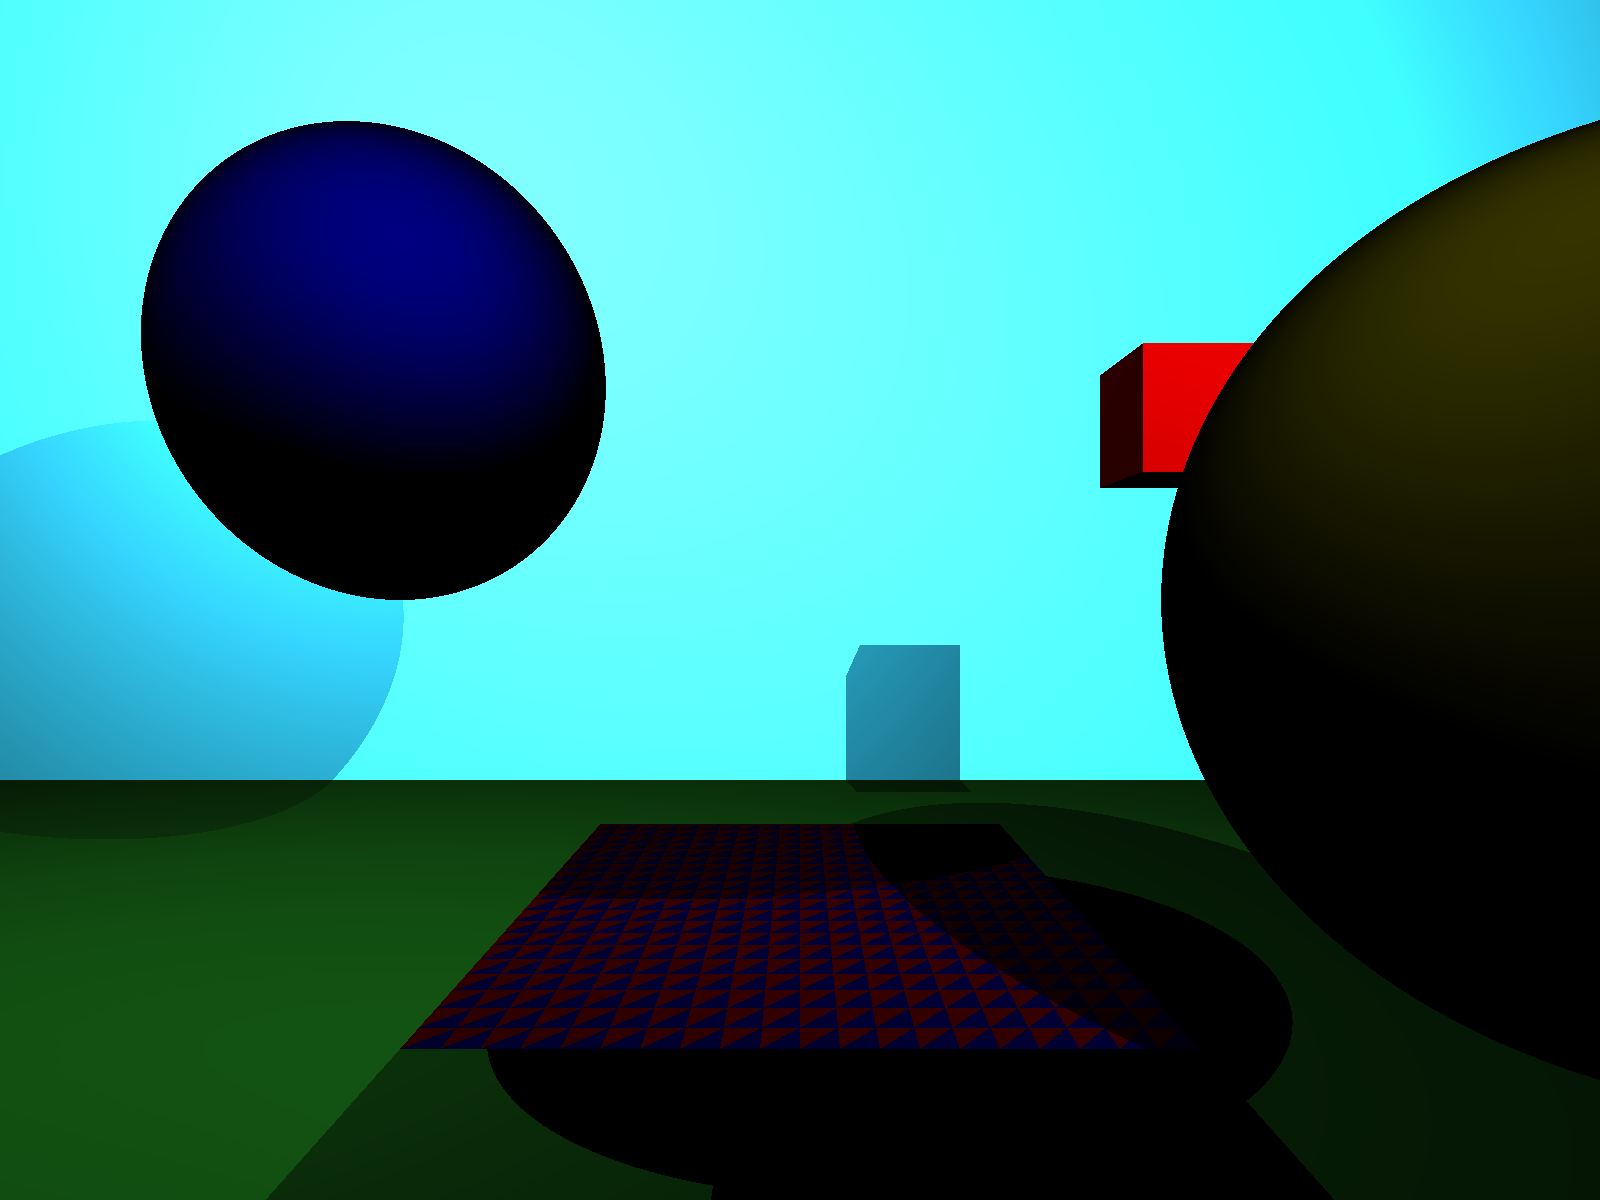
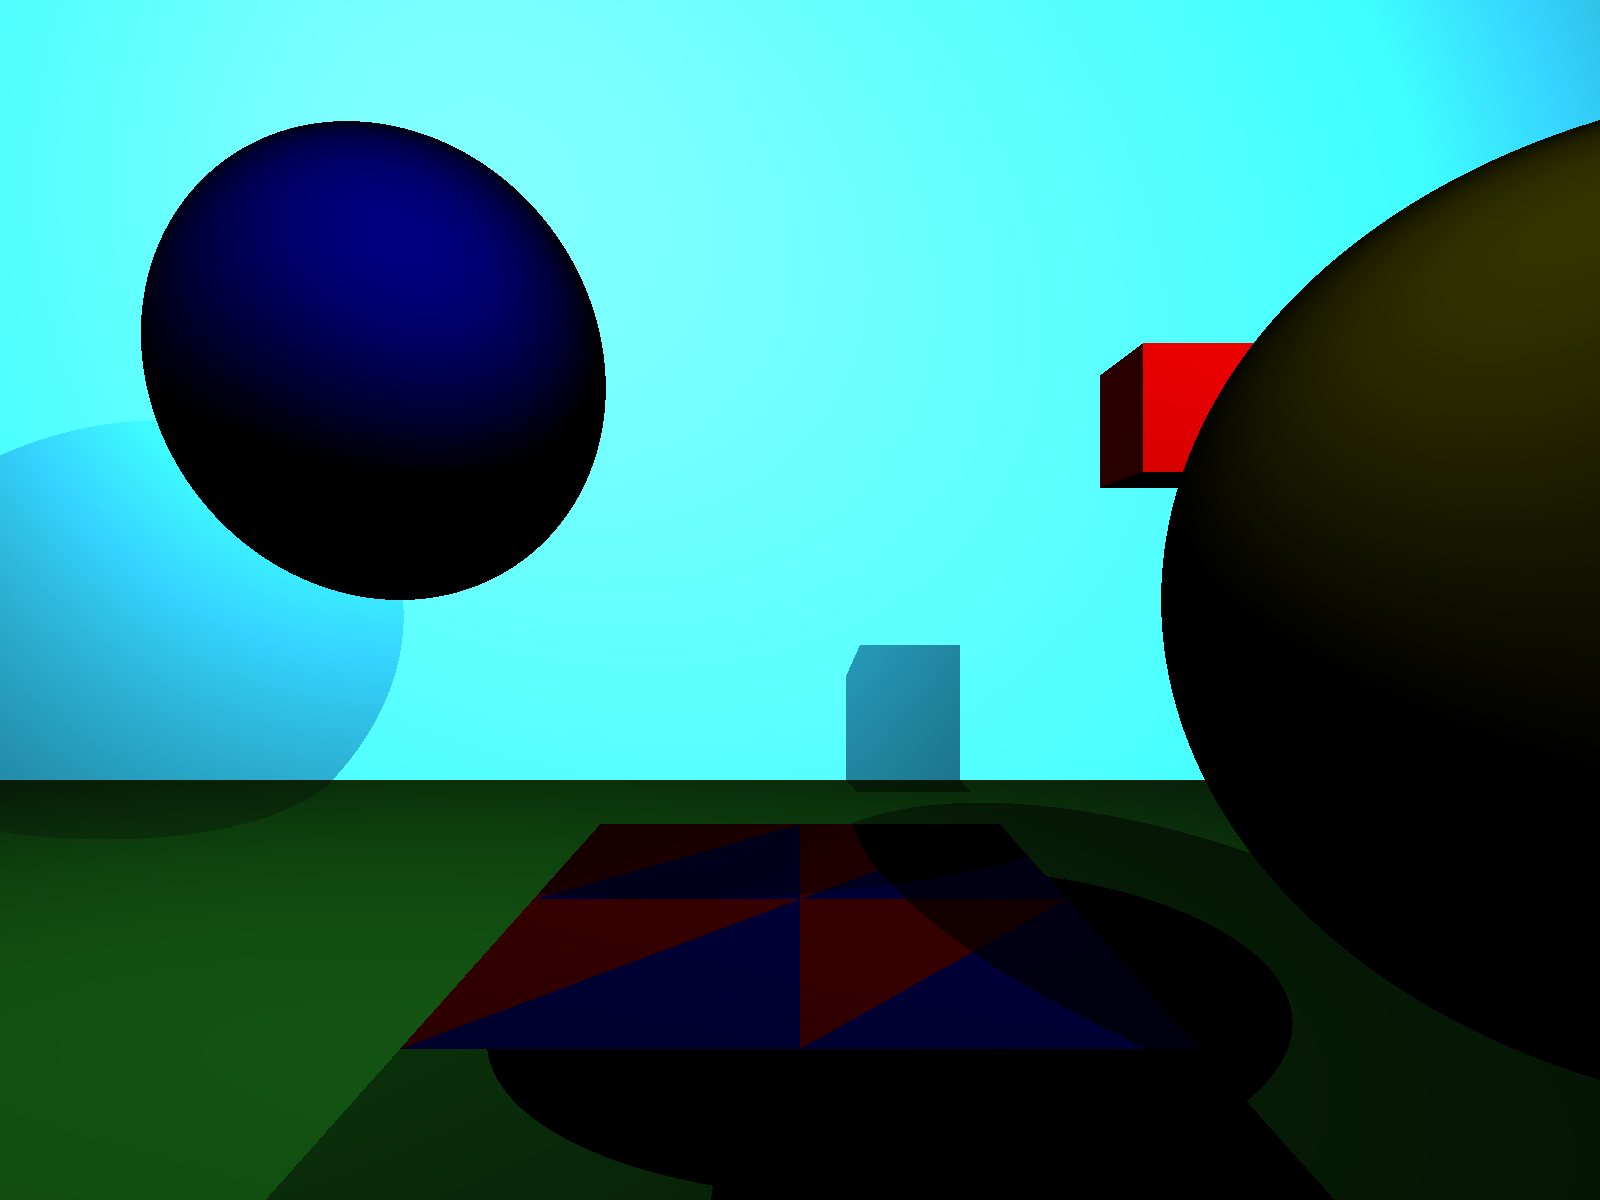
preparations for camera movement

Changed region(s): [[0.25, 0.6783, 0.6875, 0.8942]]

diff --git a/src/model/camera.go b/src/model/camera.go
@@ -14,49 +14,52 @@ type Camera struct {
 	pixelWidth, pixelHeight float64
 }
 
-func NewCamera(w, h uint) Camera {
+func NewCamera(w, h uint) *Camera {
 	r := NewRay(Vector{0, 0, 0}, Vector{0, 0, -1})
 	wf := float64(w)
 	hf := float64(h)
 	fov := 0.5 * math.Pi
-	ulhc, u, v, pw, ph := precompute(r, wf, hf, fov)
-	return Camera{
+	return &Camera{
 		Ray:         r,
 		FieldOfView: fov,
 		Width:       wf,
 		Height:      hf,
-		ulhc:        ulhc,
-		u:           u,
-		v:           v,
-		pixelWidth:  pw,
-		pixelHeight: ph,
 	}
 }
 
-func precompute(r Ray, xres, yres, fov float64) (Vector, Vector, Vector, float64, float64) {
-	w := r.Direction
+// TODO: move and rotate are WIP (and never called right now)
+
+func (c *Camera) Move(v Vector) {
+	newOrigin := c.Ray.Origin.Add(v)
+	c.Ray = NewRay(newOrigin, c.Ray.Direction)
+}
+
+func (c *Camera) Rotate() {
+	newDirection := Vector{} // TODO: funky rotation stuff
+	c.Ray = NewRay(c.Ray.Origin, newDirection)
+}
+
+func (c *Camera) Precompute() {
+	w := c.Ray.Direction
 	up := Vector{0, 1, 0}
-	u := w.Cross(up)
-	v := u.Cross(w)
+	c.u = w.Cross(up)
+	c.v = c.u.Cross(w)
 
-	tanx := math.Tan(fov / 2)
-	tany := math.Tan((yres / xres) * fov / 2)
+	tanx := math.Tan(c.FieldOfView / 2)
+	tany := math.Tan((c.Height / c.Width) * c.FieldOfView / 2)
 
-	pixelWidth := tanx / (xres / 2)
-	pixelHeight := tany / (yres / 2)
-	ULHC := r.Origin.Add(w).Sub(u.Times((xres / 2) * pixelWidth)).Add(v.Times((yres / 2) * pixelHeight))
-	ULHCmid := ULHC.Add(u.Times(pixelWidth / 2)).Sub(v.Times(pixelHeight / 2))
-	return ULHCmid, u, v, pixelWidth, pixelHeight
+	c.pixelWidth = tanx / (c.Width / 2)
+	c.pixelHeight = tany / (c.Height / 2)
+	ULHC := c.Ray.Origin.Add(w).Sub(c.u.Times((c.Width / 2) * c.pixelWidth)).Add(c.v.Times((c.Height / 2) * c.pixelHeight))
+	c.ulhc = ULHC.Add(c.u.Times(c.pixelWidth / 2)).Sub(c.v.Times(c.pixelHeight / 2))
 }
 
 // 3d translation of 2d point on view
 // assumes width >= height
 // view size is 2x2 in world, from -1,1 to 1,-1
 // viewing window lives in ex x ey plane (z = -1)
-
-// METHOD 1
 // viewport coordinate system (u,v,w)
-func (c Camera) PixelRay(x, y int) Ray {
+func (c *Camera) PixelRay(x, y int) Ray {
 	xfactor := c.pixelWidth * float64(x)
 	yfactor := c.pixelHeight * float64(y)
 	pixel := c.ulhc.Add(c.u.Times(xfactor)).Sub(c.v.Times(yfactor))

diff --git a/src/render/render.go b/src/render/render.go
@@ -9,6 +9,7 @@ import "model"
 //   - memory: use protobuff ?
 
 func Render(scene *Scene, numWorkers int) Image {
+	scene.Camera.Precompute()
 
 	w, h := int(scene.Camera.Width), int(scene.Camera.Height)
 	img := newImage(w, h)
@@ -45,10 +46,10 @@ func Render(scene *Scene, numWorkers int) Image {
 type Scene struct {
 	Objects []model.Object
 	Lights  []model.Light
-	Camera  model.Camera
+	Camera  *model.Camera
 }
 
-func NewScene(camera model.Camera) *Scene {
+func NewScene(camera *model.Camera) *Scene {
 	return &Scene{
 		Objects: []model.Object{},
 		Lights:  []model.Light{},

diff --git a/src/model/camera_test.go b/src/model/camera_test.go
@@ -6,7 +6,7 @@ import (
 
 func TestCameraPixelRay(t *testing.T) {
 	for i, tt := range []struct {
-		c             Camera
+		c             *Camera
 		x, y          int
 		wantOrigin    *Vector
 		wantDirection *Vector
@@ -29,6 +29,7 @@ func TestCameraPixelRay(t *testing.T) {
 			wantOrigin: &Vector{-0.99, 0.99, -1},
 		},
 	} {
+		tt.c.Precompute()
 		got := tt.c.PixelRay(tt.x, tt.y)
 		if tt.wantOrigin != nil && got.Origin != *tt.wantOrigin {
 			t.Errorf("%d) got origin %v want %v", i, got.Origin, *tt.wantOrigin)

diff --git a/src/main.go b/src/main.go
@@ -17,7 +17,6 @@ var (
 )
 
 func main() {
-
 	camera := m.NewCamera(WIDTH, HEIGHT)
 
 	scene := render.NewScene(camera)
@@ -53,7 +52,7 @@ func main() {
 		m.Vector{-1, -1, -2},
 		m.NewColor(255, 0, 0)}
 
-	scene.Add(projects.GridToTriangles(projects.ToPointGrid(r, 0.1))...)
+	scene.Add(projects.GridToTriangles(projects.ToPointGrid(r, 1))...)
 
 	img := render.Render(scene, NUMWORKERS)
 	img.Save("out.png")

diff --git a/src/model/plane.go b/src/model/plane.go
@@ -1,5 +1,8 @@
 package model
 
+// NOTE: planes will not work with BVH
+// since their bounding box is infinite
+
 type Plane struct {
 	object
 	Point  Vector
